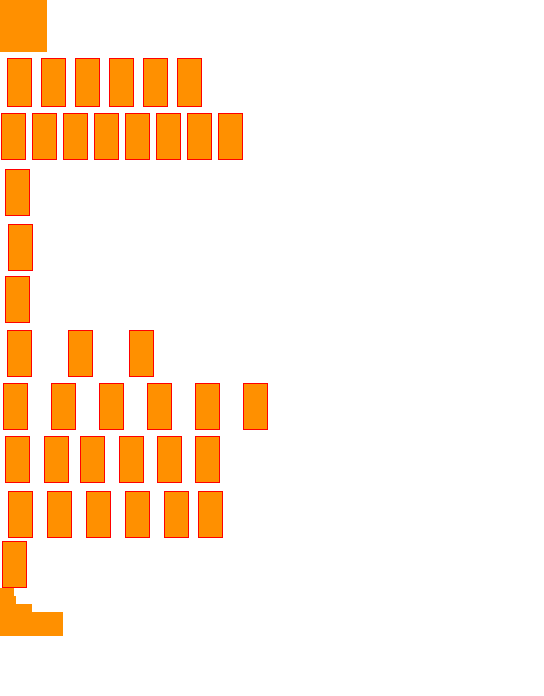
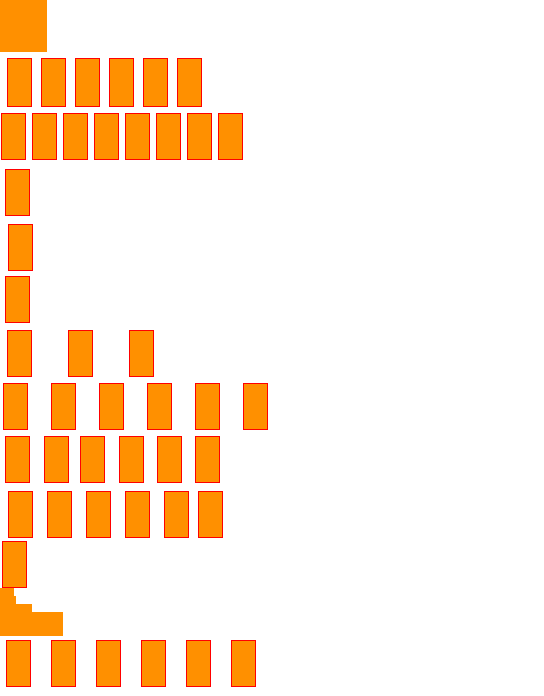
hitboxes updated

Changed region(s): [[0.0938, 0.9052, 0.3125, 0.9957], [0.3438, 0.9052, 0.4688, 0.9957], [0.0, 0.9052, 0.0625, 0.9957]]

diff --git a/world.py b/world.py
@@ -1,6 +1,7 @@
 import pygame
 
 from countdown import CountDown
+from fighters.metabee import Metabee
 from fighters.sumilidon import Sumilidon
 from fighters.test_dummy import TestDummy
 from room import Room
@@ -11,7 +12,7 @@ BACKGROUND_COLOR = pygame.Color("cyan")
 class World:
     def __init__(self):
         # Players group used to draw multiple players
-        self.player = Sumilidon(90, 300, 1256)
+        self.player = Metabee(90, 200, 1256)
         self.player2 = TestDummy(290, 300, 1257)
         self.players = {}
         self.add_player(self.player)

diff --git a/fighters/metabee.py b/fighters/metabee.py
@@ -3,5 +3,5 @@ from fighters.player import Player
 
 class Metabee(Player):
     def __init__(self, x, y, unique_id):
-        super().__init__(x, y, unique_id, "Metabee/Metabee_SpriteSheet.png", "Metabee/Metabee_Hitbox_Red.png",
+        super().__init__(x, y, unique_id, "Metabee/Metabee_SpriteSheet.png", "Metabee/Metabee_Hitbox.png",
                          "Metabee.txt", scale=1.5)

diff --git a/fighters/player.py b/fighters/player.py
@@ -258,7 +258,7 @@ class Player(pygame.sprite.Sprite):
                             enemy_attack_info['angle'] = math.pi - enemy_attack_info['angle']
                         self.apply_damage(enemy_attack_info)
 
-        self.image = locked_image
+        self.image = collision_image
         self.choose_animation()
         self.animation.update_frame()
 
